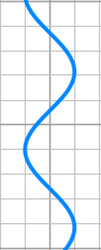
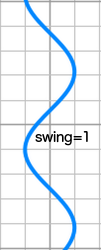
Updates the second part of step 7 again

Changed region(s): [[0.3267, 0.504, 0.8911, 0.588]]

diff --git a/curriculum/create-something.md b/curriculum/create-something.md
@@ -862,7 +862,7 @@ She changed the initial **state** to have swing parameter like this:
 The `swing` parameters should work to give different ranges between
 leftmost and rightmost of the curve.
 
-![swing of curve](images/curve-swing.png)
+![swing of curve](images/curve-range.png)
 
 
 Her `setup` function became like this:
@@ -900,62 +900,52 @@ If she considered the size of window, a couple more parameters were
 needed to make swing look nice, for example:
 
 ```
-x = x + a * sin(y/b)
+x = x + a * sin(y / b)
 ```
 
-The parameter `a` exactly works as the `swing` she added to **state**.
-When the `swing` is 1 and 3;
+The parameter `a` exactly works as the `swing` she added to the **state**.
+When the `swing` is 1, the curve traces like in the left image. While
+the `swing` is 3, the curve becomes the right image.
 
 ![swing is 1](images/1-sin-x.png)  ![swing is 3](images/3-sin-x.png)
 
+The parameter `b` adjusts distances between peeks. If the value is
+small, the snowflake goes left and right busily. On the other hand, if
+the value is big, the snowflakes moves loosely. Thinking of the size
+of window, 50 would be a good number for `b`.
+Given that, the update function would be:
 
-This means that the updated `x` parameter will have a value between
-the current `x` parameter + `swing` and the current `x` parameter -
-`swing`. For example, the first snowflake's next `x` parameter will be
-between `100 + 10` and `100 - 10`.
-
-To update the `x` parameter by a random value between some range, she
-needed to do something not just using the existing clojure functions.
-She found [`rand-int`](http://clojuredocs.org/clojure.core/rand-int)
-from [Clojure Cheat Sheet](http://clojure.org/cheatsheet), but it only
-returned between `0` and a specified value.
-
-Googling led her to this clojure code (from
-[https://github.com/sjl/roul/blob/master/src/roul/random.clj](https://github.com/sjl/roul/blob/master/src/roul/random.clj)
-):
-
-```clojure
-(defn rand-int
-  "Return a random int between start (inclusive) and end (exclusive).
-  start defaults to 0
-  "
-  ([end] (clojure.core/rand-int end))
-  ([start end] (+ start (clojure.core/rand-int (- end start)))))
+```
+x = x + swing * sin(y / 50)
 ```
 
-This was the random generation function that she wanted. But, she
-wanted a bit more.
-
-When the value goes to less than `0`, it should take the value of the
-image width, so that the snowflake will appear from the
-right. Likewise, when the value goes more than the image width, it
+Not just update x values, the function should handle the cases x is
+smaller than 0 (too left), and x is greater than image width (too
+right). When the x value goes to less than `0`, it should take the value of the
+image width, so that the snowflake will appear from the right.
+Likewise, when the x value goes to more than the image width, it
 should have value `0` so that the snowflake will appear from the left.
-
-She couldn't use `if` anymore here, since `if` takes only one
-predicate (comparison). Instead of `if`, she used `cond` and wrote an
-`update-x` funcion.
+Reflecting this conditions, her `update-x` function became
+like this:
 
 ```clojure
 (defn update-x
-  [x swing]
-  (let [start (- x swing)
-        end (+ x swing)
-        new-x (+ start (rand-int (- end start)))]
+  [m]
+  (let [x (:x m)
+        swing (:swing m)
+        y (:y m)]
     (cond
-     (> 0 new-x) (q/width)
-     (< (q/width) new-x) 0
-     :else new-x )))
+     (< x 0) (assoc m :x (q/width))                                  ;; too left
+     (< x (q/width)) (update-in m [:x] + (* swing (q/sin (/ y 50)))) ;; within frame
+     :else (assoc m :x 0))))                                         ;; too right
 ```
+
+In this function, she couldn't use `if` anymore since `if` takes only one
+predicate (comparison). Instead of `if`, she used `cond` which allowed
+her to handle multiple comparisons.
+
+
+
 
 This `update-x` function hinted to her that she could refactor the
 update function and write an `update-y` function. The below is the
